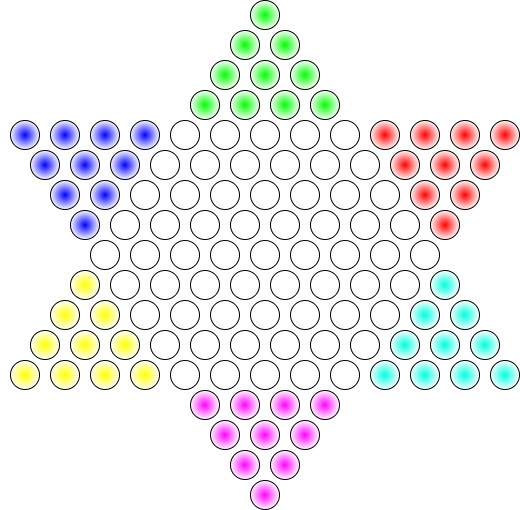
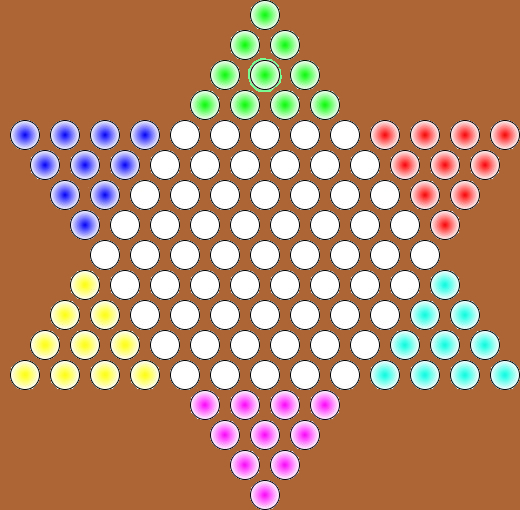
Added small circle selecting fix and change background color

diff --git a/src/server/connection/Connection.java b/src/server/connection/Connection.java
@@ -88,8 +88,8 @@ public class Connection {
     public void createConnectorServer() {
         try {
             JMXServiceURL url = new JMXServiceURL(
-//                    "service:jmx:rmi://25.0.246.243:44445/jndi/rmi://25.0.246.243:44444/jmxrmi");
-                    "service:jmx:rmi://25.71.242.160:44445/jndi/rmi://25.71.242.160:44444/jmxrmi");
+                    "service:jmx:rmi://25.0.246.243:44445/jndi/rmi://25.0.246.243:44444/jmxrmi");
+//                    "service:jmx:rmi://25.71.242.160:44445/jndi/rmi://25.71.242.160:44444/jmxrmi");
             JMXConnectorServer cs = JMXConnectorServerFactory.newJMXConnectorServer(url, null, mbs);
             cs.start();
             System.out.println(">> Create ConnectorServer");

diff --git a/src/client/logic/ClientConnection.java b/src/client/logic/ClientConnection.java
@@ -15,8 +15,8 @@ public class ClientConnection {
 
     public ClientConnection() {
         try {
-//            url = new JMXServiceURL("service:jmx:rmi://25.0.246.243:44445/jndi/rmi://25.0.246.243:44444/jmxrmi");
-            url = new JMXServiceURL("service:jmx:rmi://25.71.242.160:44445/jndi/rmi://25.71.242.160:44444/jmxrmi");
+            url = new JMXServiceURL("service:jmx:rmi://25.0.246.243:44445/jndi/rmi://25.0.246.243:44444/jmxrmi");
+//            url = new JMXServiceURL("service:jmx:rmi://25.71.242.160:44445/jndi/rmi://25.71.242.160:44444/jmxrmi");
             jmxc = JMXConnectorFactory.connect(url, null);
             mbsc = jmxc.getMBeanServerConnection();
             domain = mbsc.getDefaultDomain();

diff --git a/src/client/logic/ClientGUIController.java b/src/client/logic/ClientGUIController.java
@@ -250,7 +250,7 @@ public class ClientGUIController {
 		for (Node node : childrens) {
 			if(board.getRowIndex(node) == GridPane.getRowIndex((Node)event.getTarget()) &&
 					board.getColumnIndex(node) == GridPane.getColumnIndex((Node)event.getTarget())) {
-				if (currentPosition == null) {
+				if (currentPosition == null && node != desinationPosition) {
 					Circle circle = (Circle)node;
 					circle.setStrokeWidth(4);
 					circle.setStroke(Color.GREEN);
